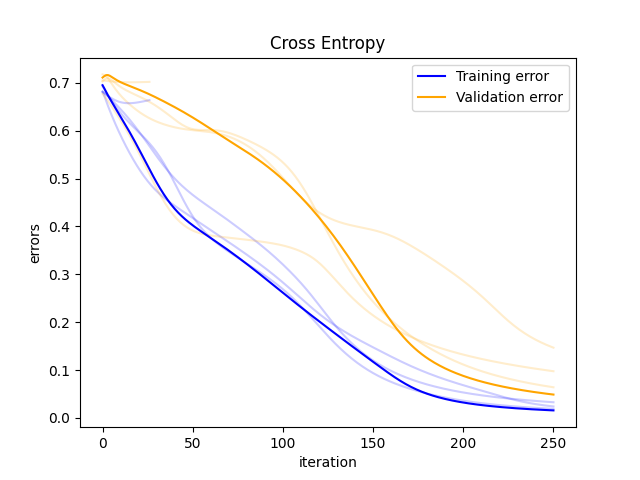
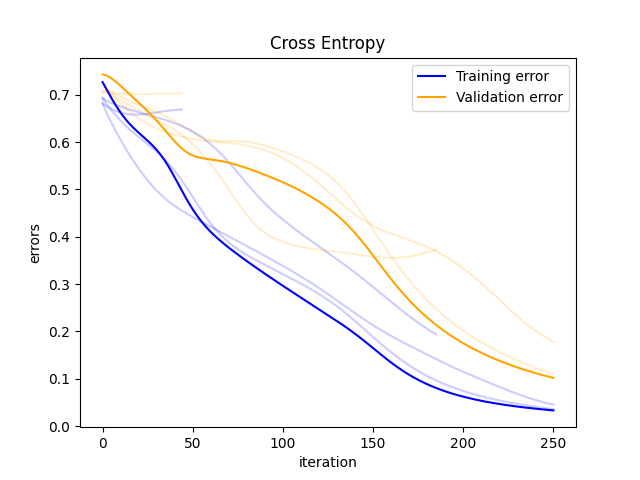
fix

diff --git a/MLP/Validations.py b/MLP/Validations.py
@@ -21,13 +21,8 @@ def kfold(conf, folded_dataset, target_domain, loss_func, lr, l2, momentum, mini
     history = []
     for i in range(len(folded_dataset)):
         validation = folded_dataset[i]
-        # TODO: Find way to directly do this with numpy methods
-        training = np.ndarray((1, 18))
-        for j, fold in enumerate(folded_dataset):
-            if j != i:
-                training = np.vstack([training, fold])
-
-        training = training[1:][:]
+        training_list = folded_dataset[:i] + folded_dataset[i + 1:]
+        training = np.concatenate(training_list)
         
         results = holdout(conf, training, validation, target_domain, loss_func, lr, l2, momentum, mini_batch_percentage, MAX_UNLUCKY_STEPS, MAX_EPOCHS)
         history.append(results)

diff --git a/MLP/GridSearch.py b/MLP/GridSearch.py
@@ -66,7 +66,7 @@ def call_kfold(args):
     return kfold(conf, folded_dataset,
                  conf["target_domain"], loss_function_from_name(conf["loss_function"]),
                  conf["lr"], conf["l2"], conf["momentum"],
-                 conf["mini_batch_percentage"], MAX_UNLUCKY_STEPS = 10, MAX_EPOCHS = 250)
+                 conf["mini_batch_percentage"], MAX_UNLUCKY_STEPS = 25, MAX_EPOCHS = 250)
 
 
 def run_holdout_grid_search(hyperparameters, training, n_workers):
